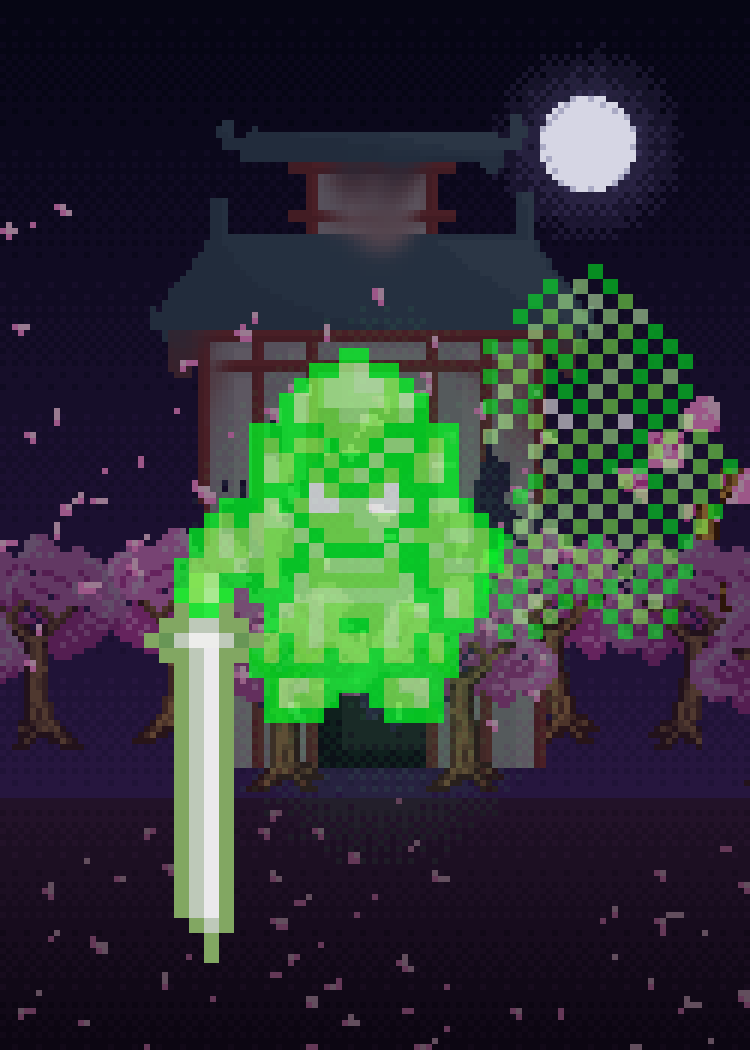
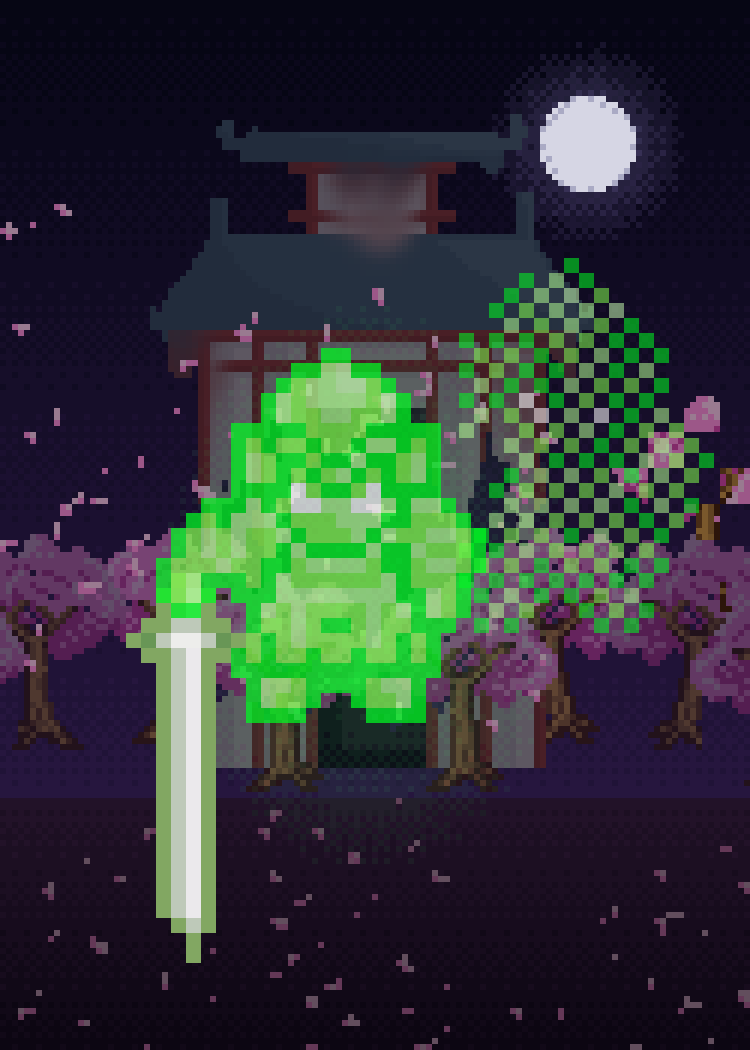
Runde 6: Gegner-Sleeves Zwischenstand
Claude-Session: https://claude.ai/code/session_01TEnvTzH2xD44R6Unjv7vDo

Changed region(s): [[0.1533, 0.2438, 0.9813, 0.9143]]

diff --git a/data/sleeve-proposals/runde6/generator/s16_rift_over_earth.py b/data/sleeve-proposals/runde6/generator/s16_rift_over_earth.py
@@ -1,23 +1,26 @@
 # -*- coding: utf-8 -*-
 """16 „Rift over Earth“ – Gegner „Depths of the Cosmos“, Held: Argos, the Eye of the Cosmos (Base).
 
-Bildidee (kosmische Weite, Diagonale): Argos’ rote Schlitzpupille hängt wie ein Riss links oben im All; aus ihr strömen
-die Analyzer-Sichelschiffe diagonal nach rechts unten zur Erdkugel, über der ein Life-Searcher mit grünem Suchstrahl
-schwebt; links unten sammelt ein Gatherer Asteroiden. Argos beschwört „Cosmic Depths“-Kreaturen – kein reines
-Riesenauge, sondern Auge + Flotte + Ziel (≠ Close Encounter/Earthrise: keine Invader-Untertasse, kein Würfel/Mond).
+Bildidee (Überarbeitung, klare Achse oben–unten): Argos’ rote Schlitzpupille steht groß und mittig über der Erde, deren
+Rund unten ins Bild ragt. Ein schwacher roter Blickkegel fällt aus der Pupille auf den Planeten und färbt dessen
+oberen Rand rötlich – das Auge hat die Welt im Visier. Genau zwei Begleiter ziehen mit erkennbarer Bewegung vom Riss
+zur Erde: links sinkt ein Life-Searcher mit grünem Suchstrahl auf die Erde herab, rechts schießt ein Analyzer-Sichel-
+schiff mit Bewegungsspur abwärts (Argos beschwört „Cosmic Depths“-Kreaturen). Kein reines Riesenauge, keine Reihe
+gleicher Schiffe, keine Asteroiden (≠ Close Encounter/Earthrise: keine Invader-Untertasse, kein Mond/Würfel).
 
 Quellen (MotiveBoons.xcf):
   Argos (Base)    = Ebene 38 „Argos“ (23×54; identisch mit 36, Pupillenmitte offen)
-  Analyzer        = Ebene 34 (Sichelschiff aus Karte „Analyzer from the Cosmic Depths“, Sichtbar #13 Lage 170,293)
-  Life-Searcher   = Ebene 22 (+ Suchstrahl 23, halbtransparent 45 % auf ganzen 2×-Pixeln), Karte Sichtbar #19
-  Gatherer        = Ebene 28 (+ Asteroiden 29), Karte „Gatherer from the Cosmic Depths“
+  Analyzer        = Ebene 34 (Sichelschiff der Karte „Analyzer from the Cosmic Depths“, Sichtbar #13 Lage 170,293),
+                    um 90° gedreht (Flugrichtung nach unten)
+  Life-Searcher   = Ebene 22 + Suchstrahl 23 (halbtransparent 45 % auf ganzen 2×-Pixeln), Karte Sichtbar #19
   Erde            = Ebene 80 „Hintergrund“ (Erdkugel, runder Ausschnitt r=50 um 280,325)
-Selbst gezeichnet: Allverlauf, Sterne, dunkelroter Schein um das Auge (gedithert, Pupille frei).
+Selbst gezeichnet: Allverlauf, Sterne, dunkelroter Schein um das Auge, roter Blickkegel (gedithert), roter
+Randschein auf der Erde, Bewegungsspur des Analyzers.
 
 Skalierung (Ausgabe = 250×350-Raster × 3):
-  All, Sterne, Erde                                 – 1×
-  Schein, Analyzer, Life-Searcher, Strahl, Gatherer, Asteroiden – 2× (125×175)
-  Argos                                             – 4× (63×88)
+  All, Sterne                                        – 1×
+  Erde, Blickkegel, Augenschein, Life-Searcher, Strahl, Analyzer + Spur – 2× (125×175)
+  Argos                                              – 4× (63×88)
 """
 import math, random
 from c_util import *  # noqa
@@ -26,57 +29,72 @@ import numpy as np
 B = 'MotiveBoons'
 rnd = random.Random(16)
 argos = sprite('o16_argos', B, [38])                                   # 23×54
-anal = [p for p in parts(compose(B, [34]), dil=1) if p.shape == (17, 18, 4)][0]   # Analyzer-Sichelschiff
+anal = [p for p in parts(compose(B, [34]), dil=1) if p.shape == (17, 18, 4)][0]   # Analyzer-Sichelschiff (fliegt →)
+anal_down = rot90(anal, 3)                                             # Spitze nach unten
 search = parts(compose(B, [22]), dil=1)[0]                             # Life-Searcher 19×34
 beam = [p for p in parts(compose(B, [23]), dil=1) if p.shape[0] == 29][0]        # grüner Suchstrahl 9×29
-gath = parts(compose(B, [28]), dil=1)[0]                               # Gatherer 30×33
-bg = layer(B, 80)
-earth = disc(bg[..., :3], 280, 325, 50)                                # Erdkugel (Hintergrund der Kosmos-Szenen)
+earth = disc(layer(B, 80)[..., :3], 280, 325, 50)                      # Erdkugel 100×100
 
-# ---------- 1×: All, Sterne, Erde ----------
+# ---------- 1×: All, Sterne ----------
 cv = Canvas(250, 350)
 SP = [(4, 4, 22), (6, 8, 34), (10, 12, 48), (14, 18, 64), (18, 24, 78)]
 for y in range(350):
     for x in range(250):
-        cv.a[y, x] = grad_pick(SP, 0.2 + 0.6 * math.hypot((x - 125) / 250, (y - 140) / 350) * -1 + 0.6, x, y)
-for _ in range(90):
-    x, y = rnd.randrange(250), rnd.randrange(350)
+        cv.a[y, x] = grad_pick(SP, 0.8 - 0.6 * math.hypot((x - 125) / 250, (y - 150) / 350), x, y)
+for _ in range(70):
+    x, y = rnd.randrange(250), rnd.randrange(260)
     cv.a[y, x] = rnd.choice([(200, 210, 255), (120, 130, 200), (255, 255, 255)])
-for _ in range(7):
-    x, y = rnd.randrange(8, 242), rnd.randrange(8, 342)
+for (x, y) in [(40, 40), (212, 70), (30, 190), (222, 214)]:
     for dx, dy in ((0, 0), (1, 0), (-1, 0), (0, 1), (0, -1)): cv.px(x + dx, y + dy, (170, 190, 255) if (dx or dy) else (255, 255, 255))
-EX, EY = 184, 282
-p1 = rgba(250, 350)
-put(p1, earth, EX - 50, EY - 50)
-blit(cv, p1, 1)
 
-# ---------- 2×: Flotte (strömt aus dem Auge zur Erde) ----------
+# ---------- 2×: Erde, Blickkegel, Begleiter ----------
 p2 = rgba(125, 175)
-# dunkelroter Schein um das Auge (im 2×-Raster hinter der Flotte), außen gedithert
-ECX, ECY = (6 + 11.5) * 2, (5 + 27) * 2          # Augenmitte im 2×-Raster
+AX4, AY4 = 20, 2                                     # Argos im 4×-Raster (63×88): x80–172, y8–224 im 250er-Raster
+ECX, ECY = (AX4 + 11.5) * 2, (AY4 + 27) * 2          # Augenmitte im 2×-Raster
+TIP = (AY4 + 54) * 2                                 # Augenspitze unten (2×)
+EX, EY = 62, 128 + 50                                # Erdmittelpunkt im 2×-Raster (Oberkante y128 → 256 im 250er-Raster)
+# dunkelroter Schein um das Auge (außen gedithert, Pupille frei)
 for y in range(175):
     for x in range(125):
-        d = math.hypot((x + 0.5 - ECX) / 34, (y + 0.5 - ECY) / 62)
-        if 0.34 < d < 1:                            # nicht in die offene Pupille
+        d = math.hypot((x + 0.5 - ECX) / 32, (y + 0.5 - ECY) / 62)
+        if 0.34 < d < 1:
             lv = int((1 - d) * 3 + bayer(x, y))
             if lv:
                 c = tuple(int(v) for v in cv.a[min(349, y * 2), min(249, x * 2)])
-                p2[y, x] = list(mix(c, (110, 14, 34), (0, 0.18, 0.32, 0.45)[min(3, lv)])) + [255]
-for (x, y) in [(58, 34), (74, 52), (64, 70)]:          # Analyzer (Sichelschiffe) fliegen nach rechts unten
-    put(p2, anal, x, y)
-SX, SY = 80, 84                                          # Life-Searcher über der Erde
+                p2[y, x] = list(mix(c, (110, 14, 34), (0, 0.16, 0.3, 0.42)[min(3, lv)])) + [255]
+# roter Blickkegel von der Augenspitze zur Erde (nach unten breiter, schwach, gedithert)
+for y in range(TIP - 6, EY - 44):
+    t = (y - (TIP - 6)) / max(1, (EY - 44) - (TIP - 6))
+    half = 3 + 20 * t
+    for x in range(int(ECX - half), int(ECX + half) + 1):
+        if 0 <= x < 125 and p2[y, x, 3] == 0:
+            f = 1 - abs(x + 0.5 - ECX) / half
+            if f * 0.8 > bayer(x, y) + 0.1:
+                c = tuple(int(v) for v in cv.a[y * 2, x * 2])
+                p2[y, x] = list(mix(c, (150, 24, 44), 0.28)) + [255]
+# Erde, oberer Rand vom Blick rötlich angestrahlt
+put(p2, earth, EX - 50, EY - 50)
+for y in range(EY - 50, EY - 30):
+    for x in range(EX - 40, EX + 41):
+        if 0 <= y < 175 and p2[y, x, 3] and math.hypot(x + 0.5 - EX, y + 0.5 - EY) > 50 - 2 - (EY - 30 - y) * 0.2:
+            if bayer(x, y) < 0.6:
+                p2[y, x, :3] = mix(tuple(int(v) for v in p2[y, x, :3]), (220, 60, 70), 0.35)
+# Life-Searcher links, sinkt mit Suchstrahl auf die Erde
+SX, SY = 20, 88
 put(p2, search, SX, SY)
-put(p2, gath, 10, 118)                                   # Gatherer mit Asteroiden unten links
-rocks = parts(compose(B, [29]), dil=1)
-for r_, (x, y) in zip(rocks, [(46, 128), (8, 152), (42, 150)]):
-    put(p2, r_, x, y)
+# Analyzer rechts, schießt mit Bewegungsspur abwärts
+QX, QY = 90, 76
+for k in range(1, 12):                                   # Spur: kurze helle Striche hinter dem Schiff, nach oben ausdünnend
+    y = QY - k * 2
+    if bayer(QX, y) * 11 < 12 - k:
+        for dx in (6, 10):
+            p2[y, QX + dx] = list(mix(tuple(int(v) for v in cv.a[y * 2, (QX + dx) * 2]), (140, 230, 200), 0.6 - k * 0.04)) + [255]
+put(p2, anal_down, QX, QY)
 blit(cv, p2, 2)
-# grüner Suchstrahl (halbtransparent, ganze 2×-Pixel)
-cv.paste(up(beam, 2), (SX + 5) * 2, (SY + 32) * 2, alpha=0.45)
+cv.paste(up(beam, 2), (SX + 5) * 2, (SY + 33) * 2, alpha=0.45)
 
 # ---------- 4×: Argos ----------
 p4 = rgba(63, 88)
-AX, AY = 6, 5
-put(p4, argos, AX, AY)
+put(p4, argos, AX4, AY4)
 blit(cv, p4, 4)
 print(save(cv, '16_rift_over_earth.png'))

diff --git a/data/sleeve-proposals/runde6/generator/s25_initiation_rite.py b/data/sleeve-proposals/runde6/generator/s25_initiation_rite.py
@@ -15,7 +15,7 @@ Quellen (MotiveGrailWar.xcf):
       keine weitere Klaus-Ebene). Daher:
         – Klaus-Brustbild = Zeilen 0–17 der Gruppe ohne die Haarpixel des Neulings; die so frei werdenden Stellen
           unter der Kapuze als Kutte in den Kapuzenfarben (Umriss 25, heller Saum 82/58, Fläche 42, Falte 32)
-          mit schräg abfallenden Schultern bis Zeile 25 fortgesetzt und unten ins Dunkel aufgelöst; alle
+          mit schräg abfallenden Schultern bis Zeile 22 fortgesetzt und unten ins Dunkel aufgelöst; alle
           Originalpixel (Kapuze, Gesicht, Dolch, Hand) liegen obenauf (leichte Ergänzung im Stil des Sprites).
         – Neuling = Zeilen 12–30 der Gruppe ohne Klaus-Pixel (vollständig, er steht vor Klaus).
       Linke Gruppe derselben Ebene (Box x 249–263, y 116–171): drei Kultisten hintereinander; rechts gespiegelt und
@@ -27,7 +27,7 @@ Selbst gezeichnet: Dunkelheit über dem Gewölbe, Fackelschein, rotes Bodenglüh
 
 Skalierung:
   Hintergrund (Gewölbe, Neuling, Kultistenreihen, Licht)   – 2× (Raster 125×175)
-  Vordergrund (Klaus-Brustbild 22×26 → 176×208)            – 8× (Raster 32×44)
+  Vordergrund (Klaus-Brustbild 22×23 → 176×184)            – 8× (Raster 32×44)
 """
 import math
 import numpy as np
@@ -47,7 +47,7 @@ def is_novice_px(p):
 
 # ---------------- Klaus-Brustbild (Sprite um 2 Spalten je Seite verbreitert, damit die Schultern Platz haben)
 P = 2
-bust = np.zeros((26, 18 + 2 * P, 4), np.uint8)
+bust = np.zeros((23, 18 + 2 * P, 4), np.uint8)
 for y in range(18):
     for x in range(18):
         p = grp[y, x]
@@ -56,10 +56,10 @@ for y in range(18):
 HOOD_IN, OUT, RIM, FILL, FOLD = (32, 32, 32), (25, 25, 25), (82, 82, 82), (42, 42, 42), (32, 32, 32)
 keep = bust.copy()                                   # Originalpixel (Kapuze, Gesicht, Dolch, Hand) bleiben obenauf
 W2 = bust.shape[1]
-for y in range(12, 26):
-    t = (y - 12) / 13
-    lo = round((4 + P) - t * 5)                      # linker Umriss: von der Kapuze schräg zur Schulter
-    hi = round((16 + P) + t * 4)                     # rechter Umriss
+for y in range(12, 23):
+    t = (y - 12) / 10
+    lo = round((4 + P) - t * 4)                      # linker Umriss: von der Kapuze schräg zur Schulter
+    hi = round((16 + P) + t * 3)                     # rechter Umriss
     hi = min(hi, W2 - 1); lo = max(lo, 0)
     for x in range(lo, hi + 1):
         c = FILL
@@ -69,9 +69,9 @@ for y in range(12, 26):
         bust[y, x] = (*c, 255)
 m = keep[..., 3] > 0
 bust[m] = keep[m]
-for y in range(20, 26):                              # unten ins Dunkel auflösen (gedithert)
+for y in range(18, 23):                              # unten ins Dunkel auflösen (gedithert)
     for x in range(W2):
-        if bust[y, x, 3] and bay(x, y) < (y - 19) / 6.5:
+        if bust[y, x, 3] and bay(x, y) < (y - 17) / 5.5:
             bust[y, x, 3] = 0
 
 # ---------------- Neuling (kniend)
@@ -104,7 +104,7 @@ bw, bh = grid(2)
 bg = hall[Y0:Y0 + bh, X0:X0 + bw].copy()
 bg[..., 3] = 255
 TORCH = [(256 - X0, 96 - Y0), (336 - X0, 96 - Y0)]
-NX, NY = 62.5, 142                 # Fußpunkt des Neulings (Canvas 125, 284)
+NX, NY = 62.5, 146                 # Fußpunkt des Neulings (Canvas 125, 292)
 out = bg[..., :3].astype(float)
 for y in range(bh):
     for x in range(bw):
@@ -141,7 +141,7 @@ hsv = cult_r[..., :3].astype(int)
 hair = (hsv[..., 0] > hsv[..., 2] + 40) & (cult_r[..., 3] > 0)        # warme Töne = Haar/Haut
 skin = (hsv[..., 0] > 200) & (hsv[..., 1] > 150)
 cult_r = hsv_shift(cult_r, dh=-25, ds=.8, dv=.8, mask=hair & ~skin)
-CY = 152                                                     # Fußzeile der Reihen (Canvas 304)
+CY = 156                                                     # Fußzeile der Reihen (Canvas 312)
 for cx, s in ((34, cult), (125 - 34, cult_r)):
     shadow(bg, cx, CY, 12)
     put(bg, s, int(cx - s.shape[1] / 2), CY - s.shape[0] + 1)
@@ -149,6 +149,6 @@ for cx, s in ((34, cult), (125 - 34, cult_r)):
 # ================================================================ 8×: Klaus
 fw, fh = grid(8)                                           # 32×44
 fg = rgba(fw, fh)
-put(fg, bust, 16 - 11, 3)                                  # Canvas x 40–216, y 24–232
+put(fg, bust, 16 - 11, 3)                                  # Canvas x 40–216, y 24–208
 
 print(finish([(bg, 2), (fg, 8)], '25_initiation_rite.png'))

diff --git a/data/sleeve-proposals/runde6/generator/s24_afterimage.py b/data/sleeve-proposals/runde6/generator/s24_afterimage.py
@@ -4,10 +4,9 @@ Held/Hauptmotiv: Idej Lord Daiyo (Base-Karte).
 
 Idee (Porträt mit Transparenz, Nacht): Daiyo, der grüne, halb durchsichtige Geist-Samurai seiner Karte,
 schwebt groß vor dem nächtlichen Tempelpavillon der Kogarasu-Karte (Cover); Pavillon und Kirschblütenhain
-liegen dunkel im Mondlicht, damit die grüne Geisterfigur leuchtet; nur wenige Blüten treiben. Links und rechts
-hinter ihm schweben zwei blassere, ins Türkis verschobene Nachbilder seiner selbst (ohne Schwert) – seine Idej
-Projections (sie werden ihm zu Spielbeginn angelegt und fangen Schaden ab): Man weiß nicht, welcher der
-echte ist. Der dunkle Innenraum des Pavillons liegt genau hinter ihm, damit das Grün leuchtet.
+liegen dunkel im Mondlicht, damit die grüne Geisterfigur leuchtet; nur wenige Blüten treiben. Rechts hinter
+ihm, höher und deutlich seitlich versetzt, schwebt EIN Nachbild seiner selbst (nur der Körper, im Schachbrett
+der 5×-Pixel gedithert) – seine Idej Projection (wird ihm zu Spielbeginn angelegt und fängt Schaden ab).
 
 Quellen:
   MotiveSteamDwarfs.xcf  Kartenszene „Idej Lord Daiyo“ = Ebene 402 „Sichtbar #4“ (Lage 83,71, exakter Treffer):
@@ -15,14 +14,14 @@ Quellen:
                          Hintergrund – hier ebenso), Ebene 405 „Ebene #24“ (Hand am Griff, ~75 %),
                          Ebene 406 „Ebene #22“ (weißes Schwert, deckend). (Gleiche Figur wie MotiveJapan 160 „Daiyo“.)
                          Nicht verwendet: 403/404 (verblasste bzw. schwarze Variante, in der Karte ausgeblendet).
-  MotiveJapan.xcf        Kogarasu-Kartenszene Ebene 3: Ebene 247 „Ebene“ (Abendhimmel mit Wolken),
+  MotiveJapan.xcf        Kogarasu-Kartenszene Ebene 3:
                          236 „House Todugawin“ + 231 „Ebene #73“ + 237 „Ebene #149“ (Pavillon mit Shoji),
-                         217 „Ebene #2“ (Kirschbaumreihe; weitere Reihen davor versetzt/gespiegelt),
-                         142 „KIRSCHBLÜTEN“ (treibende Blüten).
-Selbst gezeichnet: Abdunkelung des Himmels zum oberen Rand (gedithert), grüner Schein des Geistes auf dem
-                         Pavillon-Inneren.
+                         217 „Ebene #2“ (Kirschbaumreihe; links/rechts gespiegelt fortgesetzt),
+                         142 „KIRSCHBLÜTEN“ (wenige treibende und gefallene Blüten).
+                         Pavillon und Bäume im Mondlicht abgedunkelt/violett getönt.
+Selbst gezeichnet: Nachthimmel (geordnetes Dithering), Mond mit Hof, Boden, grüner Schein des Geistes.
 Skalierung: Hintergrund (Himmel, Pavillon, Kirschbäume, Blüten, grüner Schein) – 2×-Raster (125×175);
-            Daiyo + Nachbilder (24×41 → 120×205) – 5×; die Nachbilder sind dieselbe 5×-Figur, nur blasser.
+            Daiyo (24×41 → 120×205) und sein Nachbild – 5×.
 """
 import math
 from common import *  # noqa
@@ -123,7 +122,7 @@ blit(cv, bg, 2)
 # ---------------------------------------------------------------- Nachbild (Idej Projection) + Daiyo 5×
 k = 5
 dw, dh = (X1 - X0) * k, (Y1 - Y0) * k
-DX, DY = 48, 116
+DX, DY = 42, 116
 # grüner Schein hinter Daiyo und auf dem Boden (Raster 2×, gedithert)
 gx, gy = (DX + 7 * k + 45) / 2, (DY + 80) / 2
 for y in range(GH):
@@ -151,6 +150,6 @@ def echo_on(dst, k, ox, oy, a):
 
 
 # ein Nachbild rechts hinten, höher und deutlich seitlich versetzt
-echo_on(cv.a, k, DX + 78, DY - 28, 0.55)
+echo_on(cv.a, k, DX + 76, DY - 30, 0.55)
 daiyo_on(cv.a, k, DX, DY, 0.73, 1.0)
 print(save(cv, '24_afterimage.png'))
